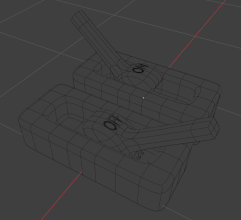
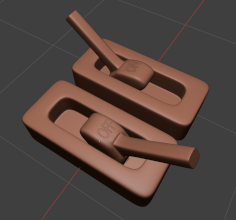
before adding rounded box around the buttons

diff --git a/3d.html b/3d.html
@@ -11,20 +11,20 @@
     <div id="header-placeholder"></div>
 
     <div class="container mt-5">
-        <h1 class="mb-4">3D Environment</h1>
+        <h1 class="mb-5 text-center">Зразки 3D-моделей</h1>
 
-        <div class="row mb-5 align-items-center">
-            <div class="col-12 col-md-4 text-center text-md-start mb-3 mb-md-0">
+        <div class="row mb-5 align-items-center justify-content-center">
+            <div class="col-12 col-md-6 text-center mb-3 mb-md-0">
                 <button class="btn p-0 border-0 custom-image-btn" id="model1-btn">
-                    <img src="img/single_switch_off.png" alt="Button Part 1" class="img-fluid">
-                    <img src="img/single_switch_on.png" alt="Button Part 2" class="img-fluid">
+                    <img src="img/single_switch_off.png" alt="Switch Off" class="img-fluid switch-off d-none">
+                    <img src="img/single_switch_on.png" alt="Switch On" class="img-fluid switch-on ">
                 </button>
             </div>
-            <div class="col-12 col-md-8">
+            
+            <div class="col-12 col-md-6 text-center">
                 <img src="img/single_switch_3d_model_scaled.png" alt="3D Model 1" class="img-fluid rounded shadow-sm">
             </div>
         </div>
-
     </div>
 
     <script src="js/jquery.min.js"></script>

diff --git a/js/script.js b/js/script.js
@@ -62,9 +62,15 @@ $(document).ready(function() {
     // Tell it to render!
     myMenu.render();
 
-    // Your other jQuery code stays here, nice and clean
-    $('#clickMeBtn').click(function() {
-        alert("jQuery is working locally!");
+    // ---------------------------------------------------------
+    // 3D Page Interactions
+    // ---------------------------------------------------------
+    
+    // Listen for a click on the model1 button
+    $('#model1-btn').click(function() {
+        // Toggle the 'd-none' class on both images inside this specific button
+        $(this).find('.switch-off').toggleClass('d-none');
+        $(this).find('.switch-on').toggleClass('d-none');
     });
 
 });